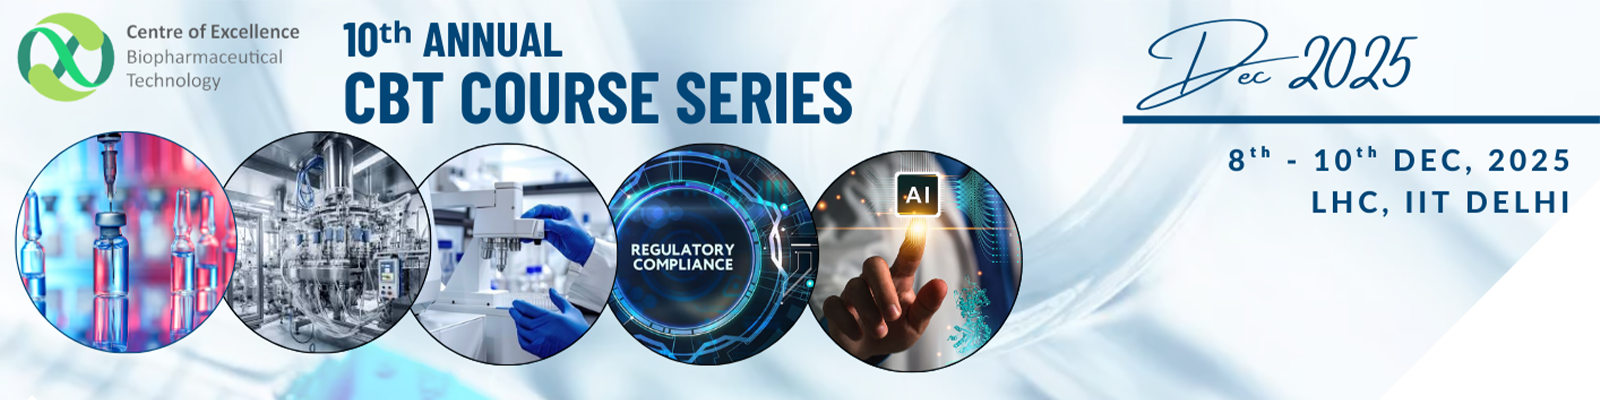
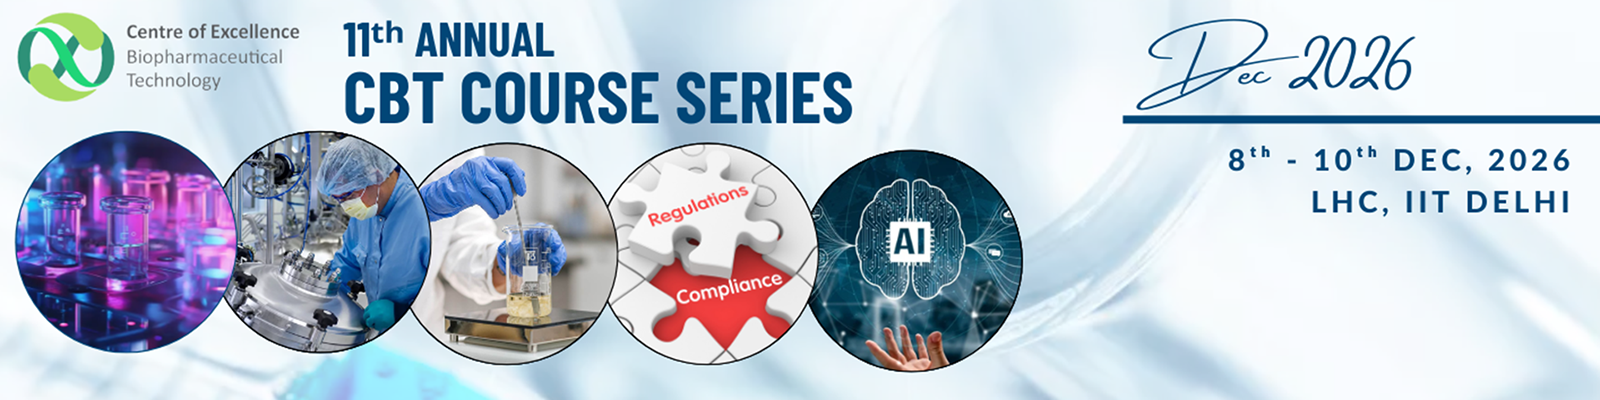
remove hover, update register page

diff --git a/course-series/js/config.js b/course-series/js/config.js
@@ -35,7 +35,7 @@ const COURSE_SERIES_CONFIG = {
       },
     ],
     highlights: [
-      "3 days of sessions across 16 modules — attend as many or as few as suit you",
+      "3 days of sessions across 15 modules — attend as many or as few as suit you",
       "One module per day is selected at registration; each day runs modules in parallel across rooms",
       "Separate fee tiers for academia and industry, based on how many modules you pick",
     ],
@@ -47,8 +47,9 @@ const COURSE_SERIES_CONFIG = {
   intro: {
     heading: "Course Registration",
     body: 'Center of Excellence for Biopharmaceutical Technology (COE-CBT) is organizing our annual training event "CBT Course Series 2026" from 8th – 10th Dec 2026. Attendees from industry and academia are welcome to participate.',
-    // TODO: user will provide the real banner photo — drop it in at this path.
-    bannerImage: "assets/images/course-banner.png",
+    // Bump the ?v= value whenever course-banner.png is replaced, so browsers
+    // and the host's cache fetch the new image instead of the old one.
+    bannerImage: "assets/images/course-banner.png?v=2026-09-23",
     brochureLabel: "More Details & Brochure",
     // TODO: placeholder — user will provide the real link later.
     brochureUrl: "",
@@ -56,67 +57,76 @@ const COURSE_SERIES_CONFIG = {
 
   // Each module appears in exactly one day. Modules have no individual price
   // — the real fee structure (below, `feeTiers`) prices by how many modules
-  // are picked in total, not which ones.
+  // are picked in total, not which ones. Titles and day assignments come from
+  // the module-name table (A10:C16, one column per day) on the "Grid" sheet
+  // of reference/cbt_event.xlsx.
   days: [
     {
       label: "Day 1",
       date: "December 8, 2026",
       modules: [
-        { code: "M1", title: "Commercial Biopharma Manufacturing — Best Practices for Process and Facility Operation (Day 1)" },
-        { code: "M3", title: "Drug Development: Concepts and Frameworks" },
-        { code: "M6", title: "Design of Experiments for Bioprocess Experimentation" },
-        { code: "M9", title: "New Age Biotherapeutics: CAR T cells, ADCs, and VLPs" },
-        { code: "M14", title: "Analogue: a Path to Computational Drug Design" },
+        { code: "M1", title: "Fundamentals of Upstream Process Development" },
+        { code: "M4", title: "Analytical Characterization of Biosimilars" },
+        { code: "M7", title: "Design of Experiments for Bioprocess Experimentation" },
+        { code: "M10", title: "Drug Development: Concepts and Frameworks" },
+        { code: "M13", title: "Critical Quality Attribute in Biotherapeutics" },
+        { code: "M15", title: "AI & Machine Learning in Bioprocess: From Principles to Practice" },
       ],
     },
     {
       label: "Day 2",
       date: "December 9, 2026",
       modules: [
-        { code: "M2", title: "Commercial Biopharma Manufacturing — Best Practices for Process and Facility Operation (Day 2)" },
-        { code: "M4", title: "Regulatory Framework for Lifecycle Management of Biotherapeutic Products" },
-        { code: "M7", title: "Development and Optimization of Upstream processes" },
-        { code: "M10", title: "Critical Quality Attributes of Biotherapeutic Products" },
-        { code: "M12", title: "Downstream Processing Development for Biotherapeutic Purification" },
-        { code: "M15", title: "Machine Learning Fundamentals for Bioprocess Engineers" },
+        { code: "M2", title: "Downstream Processing for Biopharmaceutical Production" },
+        { code: "M5", title: "Formulation Science for Biotherapeutics: From QTPP to Stable Drug Products (Part I)" },
+        { code: "M8", title: "Commercial Biopharma Manufacturing — Mastering Process and Facility Operations (Part I)" },
+        { code: "M11", title: "Regulatory Framework for Lifecycle Management of Products" },
+        { code: "M14", title: "Smart Bioprocessing: From Data to Decisions" },
       ],
     },
     {
       label: "Day 3",
       date: "December 10, 2026",
       modules: [
-        { code: "M5", title: "Immunogenicity and other Safety Concerns related to Biotherapeutic Products" },
-        { code: "M8", title: "Scale-up and commercial operations in upstream processes" },
-        { code: "M11", title: "Role of Spectroscopy in Characterization of Biotherapeutic Products" },
-        { code: "M13", title: "Continuous Bioprocessing: Design, Integration, Monitoring and Control" },
-        { code: "M16", title: "Biopharma 4.0: Path Towards Next Generation Biomanufacturing" },
+        { code: "M3", title: "Next Generation Bioprocessing" },
+        { code: "M6", title: "Formulation Science for Biotherapeutics: From QTPP to Patient-Centric Delivery (Part II)" },
+        { code: "M9", title: "Commercial Biopharma Manufacturing — Tech Ops & Advanced Systems (Part II)" },
+        { code: "M12", title: "Biosimilar Guidelines" },
       ],
     },
   ],
 
-  // Real numbers, read directly off the live form's "FEE STRUCTURE" table
-  // image. Already inclusive of 18% GST. Priced per how many modules (1-3)
-  // are picked in total across all 3 days, by category.
+  // From the fee table on the "Grid" sheet of reference/cbt_event.xlsx.
+  // Already inclusive of 18% GST. Priced per how many modules (1-3) are
+  // picked in total across all 3 days, by category.
   feeTiers: {
-    academia: { 1: 2500, 2: 3500, 3: 6000 },
-    industry: { 1: 6000, 2: 9500, 3: 12000 },
+    academia: { 1: 3000, 2: 5000, 3: 6500 },
+    industry: { 1: 5000, 2: 9000, 3: 12000 },
   },
   feeNote: "Fees above are inclusive of 18% GST.",
   feeWarning: "*Fee once paid is non-refundable.",
 
-  // Room/venue schedule, read off the live form's "Module Details" table
-  // image. Room assignments are carried over from last year's edition as
-  // reference — confirm they still hold before this goes live. Module codes
-  // reference the same modules defined in `days` above (titles aren't
+  // Early bird: % off the module fee (accommodation is added undiscounted on
+  // top). Applies through the end of 16 Nov IST, so it switches off at
+  // midnight IST going into 17 Nov.
+  earlyBird: {
+    discountPercent: 10,
+    endsAt: "2026-11-17T00:00:00+05:30",
+    note: "*Includes a 10% early bird discount on module fees (not on accommodation), valid till 16 November 2026 (IST).",
+  },
+
+  // Room/venue schedule (one row per room, one cell per day), from the venue
+  // table (A1:D8) on the "Grid" sheet of reference/cbt_event.xlsx. Module
+  // codes reference the same modules defined in `days` above (titles aren't
   // duplicated here).
   roomScheduleTime: "8:30am – 6:30pm",
   roomSchedule: [
-    { room: "LHC 413.1", cells: ["M1", "M2", null] },
-    { room: "LHC 413.2", cells: ["M3", "M4", "M5"] },
-    { room: "LHC 416", cells: ["M6", "M7", "M8"] },
-    { room: "LHC 413.3", cells: ["M9", "M10", "M11"] },
-    { room: "LHC 418", cells: [null, "M12", "M13"] },
-    { room: "LHC 413.4", cells: ["M14", "M15", "M16"] },
+    { room: "LHC 408", cells: ["M1", "M2", "M3"] },
+    { room: "LHC 410", cells: ["M4", "M5", "M6"] },
+    { room: "LHC 416", cells: ["M7", "M8", "M9"] },
+    { room: "LHC 418", cells: ["M10", "M11", "M12"] },
+    { room: "LHC 421", cells: ["M13", "M14", null] },
+    { room: "LHC 422", cells: ["M15", null, null] },
   ],
 
   // Matches the live form's real rates (these ARE real — the form itself

diff --git a/course-series/js/register.js b/course-series/js/register.js
@@ -162,6 +162,13 @@
 
   // ---- Live calculation ----
   const feeDisplay = document.getElementById("feeDisplay");
+  const earlyBirdNote = document.getElementById("earlyBirdNote");
+
+  // Checked on every recalculation (not once at load) so a page left open
+  // past the cutoff stops applying the discount.
+  function earlyBirdActive() {
+    return Date.now() < new Date(cfg.earlyBird.endsAt).getTime();
+  }
 
   function recalculate() {
     const selectedCount = moduleCheckboxes.filter((m) => !m.isNone && m.checkbox.checked).length;
@@ -169,8 +176,15 @@
     const category = affiliationTypeSelect.value; // "academia" | "industry" | "" (not selected yet)
 
     const moduleFee = selectedCount > 0 && category ? (cfg.feeTiers[category][selectedCount] || 0) : 0;
-    const total = moduleFee + accommodationTier.price;
+    const earlyBird = earlyBirdActive();
+    const discountedModuleFee = earlyBird
+      ? Math.round(moduleFee * (1 - cfg.earlyBird.discountPercent / 100))
+      : moduleFee;
+    const total = discountedModuleFee + accommodationTier.price;
     feeDisplay.value = formatINR(total);
+
+    earlyBirdNote.hidden = !earlyBird;
+    earlyBirdNote.textContent = cfg.earlyBird.note;
   }
 
   recalculate();
@@ -197,6 +211,7 @@
 
   form.addEventListener("submit", async (e) => {
     e.preventDefault();
+    recalculate(); // re-check the early bird cutoff in case the page sat open past it
 
     if (!form.checkValidity()) {
       form.reportValidity();

diff --git a/course-series/js/shared.js b/course-series/js/shared.js
@@ -44,6 +44,7 @@ function initMainSiteLinks(cfg) {
 // the two never drift out of sync.
 function renderFeeTableHTML(cfg) {
   const tierLabels = { 1: "Pick any one", 2: "Pick any two", 3: "Pick any three" };
+  const moduleCount = cfg.days.reduce((sum, day) => sum + day.modules.length, 0);
   return `
     <thead>
       <tr><th>Module</th><th>Indian Academia</th><th>Indian Industry</th></tr>
@@ -51,7 +52,7 @@ function renderFeeTableHTML(cfg) {
     <tbody>
       ${[1, 2, 3].map((n) => `
         <tr>
-          <td>M1–M16 (${tierLabels[n]})</td>
+          <td>M1–M${moduleCount} (${tierLabels[n]})</td>
           <td>${formatINR(cfg.feeTiers.academia[n])}</td>
           <td>${formatINR(cfg.feeTiers.industry[n])}</td>
         </tr>

diff --git a/course-series/register.html b/course-series/register.html
@@ -142,6 +142,7 @@
           <div class="cs-field">
             <label for="feeDisplay">Registration fee</label>
             <input id="feeDisplay" type="text" readonly value="₹0" />
+            <p class="cs-fee-subnote" id="earlyBirdNote" hidden></p>
           </div>
           <div class="cs-field">
             <label for="fTxnId">Transaction ID <span class="cs-req">*</span></label>
@@ -174,8 +175,8 @@
   </div>
 </footer>
 
-<script src="js/config.js"></script>
-<script src="js/shared.js"></script>
-<script src="js/register.js"></script>
+<script src="js/config.js?v=2026-09-23"></script>
+<script src="js/shared.js?v=2026-09-23"></script>
+<script src="js/register.js?v=2026-09-23"></script>
 </body>
 </html>

diff --git a/course-series/index.html b/course-series/index.html
@@ -54,7 +54,7 @@
 
     <section class="cs-about-block">
       <h2>Course Curriculum</h2>
-      <p class="cs-hint">16 modules across 3 days — pick the ones most relevant to you when you register.</p>
+      <p class="cs-hint">15 modules across 3 days — pick the ones most relevant to you when you register.</p>
       <div id="curriculumDays"></div>
     </section>
 
@@ -82,8 +82,8 @@
   </div>
 </footer>
 
-<script src="js/config.js"></script>
-<script src="js/shared.js"></script>
-<script src="js/about.js"></script>
+<script src="js/config.js?v=2026-09-23"></script>
+<script src="js/shared.js?v=2026-09-23"></script>
+<script src="js/about.js?v=2026-09-23"></script>
 </body>
 </html>

diff --git a/course-series/css/style.css b/course-series/css/style.css
@@ -365,6 +365,7 @@ a { color: var(--cs-accent-dark); }
 .cs-schedule-code { display: inline; font-weight: 700; color: var(--cs-accent); }
 .cs-table-note { margin: 14px 0 0; color: var(--cs-ink-soft); font-size: 0.89rem; }
 .cs-fee-warning { margin: 8px 0 0; color: var(--cs-danger); font-weight: 700; font-size: 0.92rem; }
+.cs-fee-subnote { margin: 0; color: var(--cs-ink-soft); font-size: 0.82rem; }
 
 /* ---------- Bank details ---------- */
 .cs-bank-box {

diff --git a/css/style.css b/css/style.css
@@ -410,10 +410,6 @@ p { margin: 0 0 1em; }
   overflow: hidden;
   transition: box-shadow 0.15s ease, transform 0.15s ease;
 }
-.research-card:hover {
-  box-shadow: var(--shadow-hover);
-  transform: translateY(-4px);
-}
 .research-card .rc-image {
   position: relative;
   aspect-ratio: 16 / 10;

diff --git a/course-series/thank-you.html b/course-series/thank-you.html
@@ -47,8 +47,8 @@
   </div>
 </footer>
 
-<script src="js/config.js"></script>
-<script src="js/shared.js"></script>
+<script src="js/config.js?v=2026-09-23"></script>
+<script src="js/shared.js?v=2026-09-23"></script>
 <script src="js/thank-you.js"></script>
 </body>
 </html>
